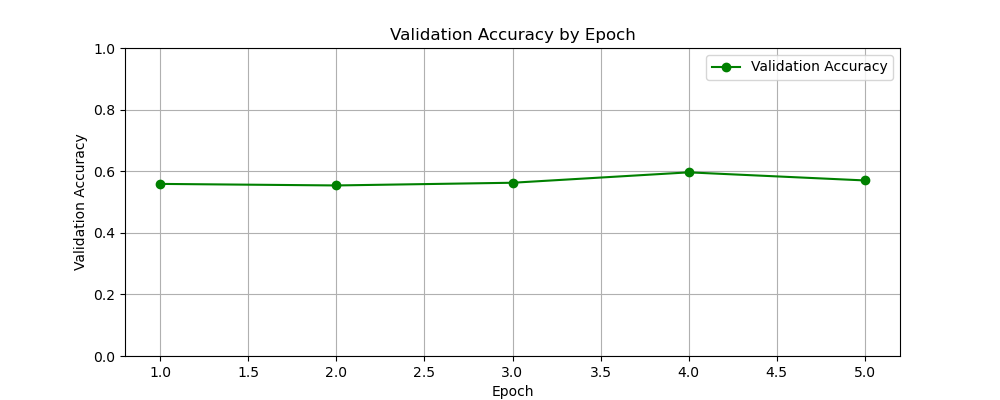
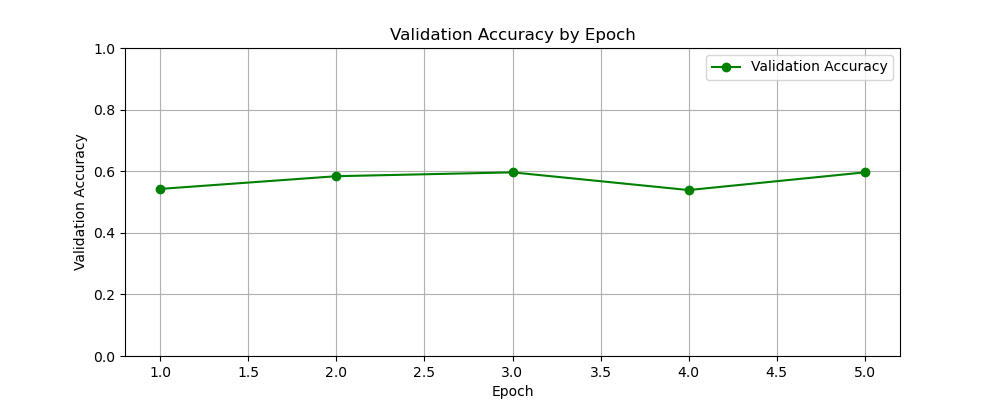
Added some pre-processing

Changed region(s): [[0.155, 0.42, 0.868, 0.48]]

diff --git a/ffnn.py b/ffnn.py
@@ -5,7 +5,7 @@ from torch.nn import init
 import torch.optim as optim
 import matplotlib.pyplot as plt
 import random
-import os
+import re
 import time
 from tqdm import tqdm
 import json
@@ -127,9 +127,16 @@ def load_data(train_data, val_data):
 
     tra = []
     val = []
+    replacement_rules = {'“': '"', '”': '"', '’': "'", '--': ','}
     for elt in training:
+        elt["text"] = elt["text"].lower()
+        for symbol, replacement in replacement_rules.items():
+            elt["text"] = elt["text"].replace(symbol, replacement)
         tra.append((elt["text"].split(),int(elt["stars"]-1)))
     for elt in validation:
+        elt["text"] = elt["text"].lower()
+        for symbol, replacement in replacement_rules.items():
+            elt["text"] = elt["text"].replace(symbol, replacement)
         val.append((elt["text"].split(),int(elt["stars"]-1)))
 
     return tra, val
@@ -151,19 +158,19 @@ if __name__ == "__main__":
 
     # load data
     print("========== Loading data ==========")
-    train_data, valid_data = load_data(args.train_data, args.val_data) # X_data is a list of pairs (document, y); y in {0,1,2,3,4}
+    train_data_json, valid_data_json = load_data(args.train_data, args.val_data) # X_data is a list of pairs (document, y); y in {0,1,2,3,4}
 
     print("Training data : ")
     data_analysis(args.train_data)
     print("\nValidation data : ")
     data_analysis(args.val_data)
 
-    vocab = make_vocab(train_data)
+    vocab = make_vocab(train_data_json)
     vocab, word2index, index2word = make_indices(vocab)
 
     print("========== Vectorizing data ==========")
-    train_data = convert_to_vector_representation(train_data, word2index)
-    valid_data = convert_to_vector_representation(valid_data, word2index)
+    train_data = convert_to_vector_representation(train_data_json, word2index)
+    valid_data = convert_to_vector_representation(valid_data_json, word2index)
     
 
     model = FFNN(input_dim = len(vocab), h = args.hidden_dim)
@@ -171,7 +178,6 @@ if __name__ == "__main__":
     print("========== Training for {} epochs ==========".format(args.epochs))
     losses = [] 
     accuracies = []
-
     for epoch in range(args.epochs):
         model.train()
         optimizer.zero_grad()
@@ -183,6 +189,7 @@ if __name__ == "__main__":
         random.shuffle(train_data) # Good practice to shuffle order of training data
         minibatch_size = 16 
         N = len(train_data) 
+
         total_loss = 0
         for minibatch_index in tqdm(range(N // minibatch_size)):
             optimizer.zero_grad()
@@ -222,6 +229,9 @@ if __name__ == "__main__":
                 predicted_label = torch.argmax(predicted_vector)
                 correct += int(predicted_label == gold_label)
                 total += 1
+                # if predicted_label != gold_label:
+                #     print(valid_data_json[minibatch_index * minibatch_size + example_index])
+                #     print("TRUE : "+str(gold_label)+" PREDICTED : "+ str(predicted_label))
         accuracies.append(correct / total)
         print("Validation completed for epoch {}".format(epoch + 1))
         print("Validation accuracy for epoch {}: {}".format(epoch + 1, correct / total))
@@ -231,9 +241,8 @@ if __name__ == "__main__":
     with open("results/ffnn_result.out", "w") as outfile :
         outfile.write("Validation accuracy : {}".format(correct / total))
 
-print(losses)
-print(accuracies)
-
+# print(losses)
+# print(accuracies)
 
 # Learning curve
 epochs = list(range(1, len(losses) + 1))
